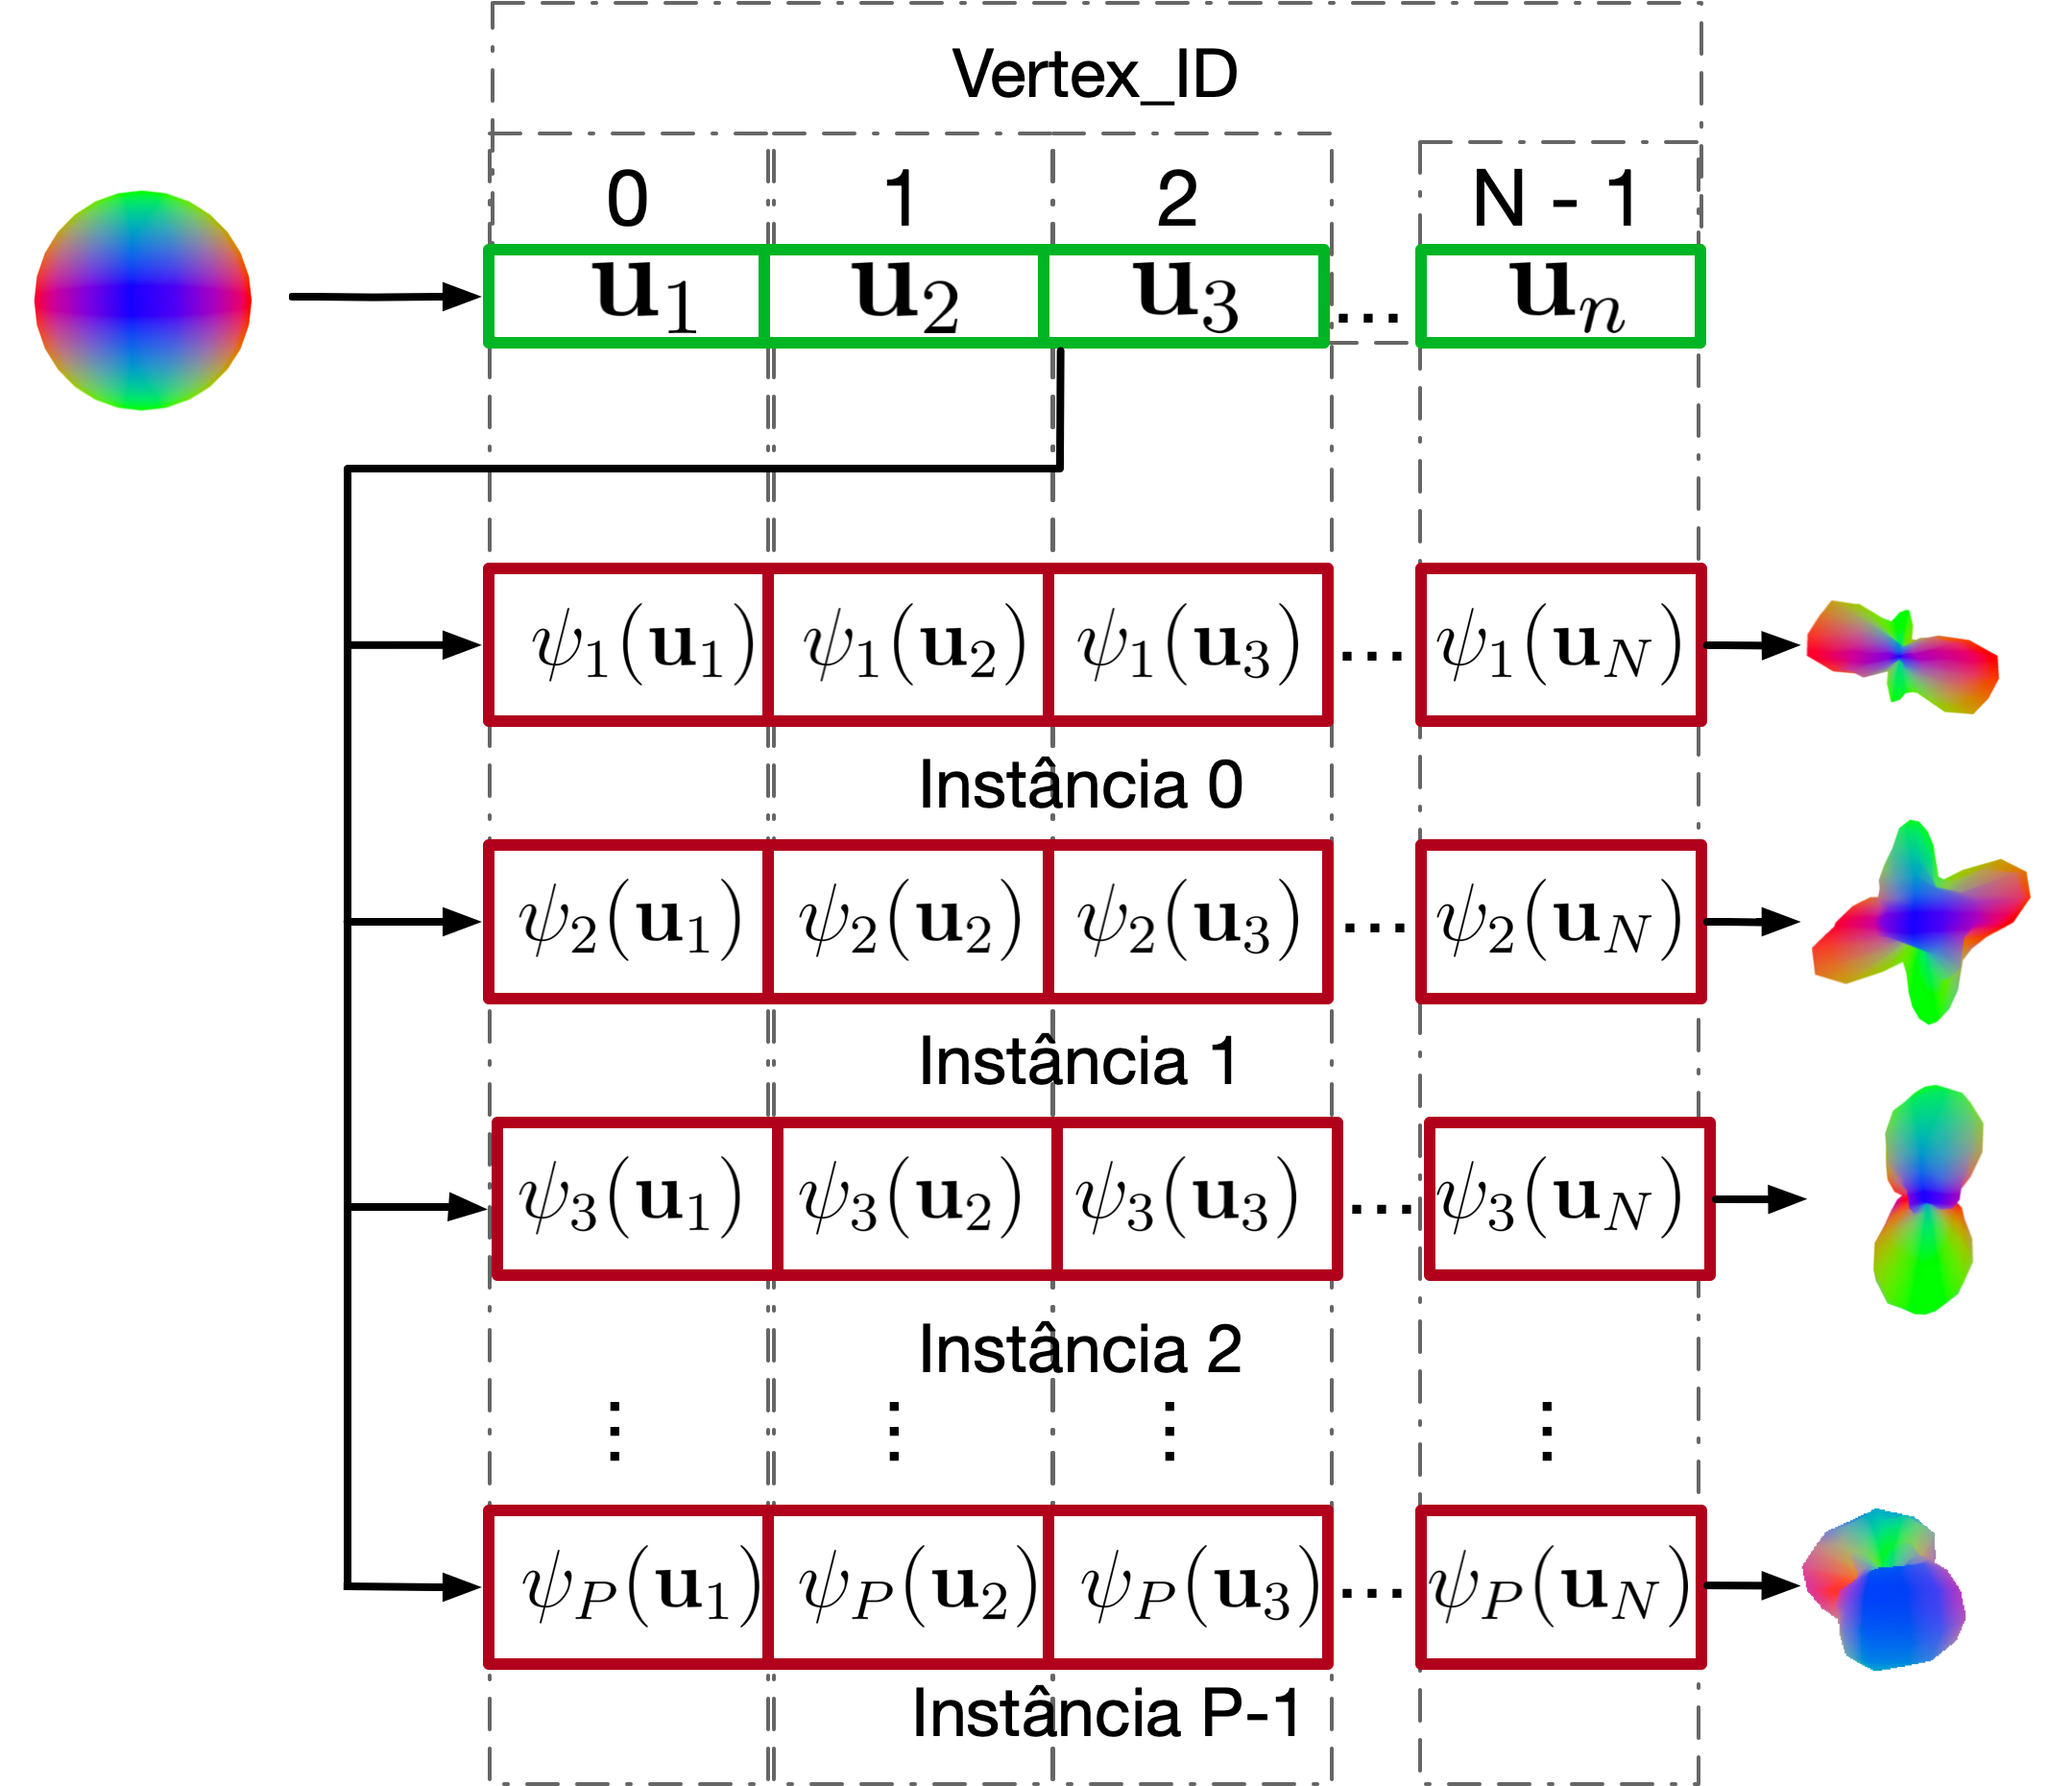
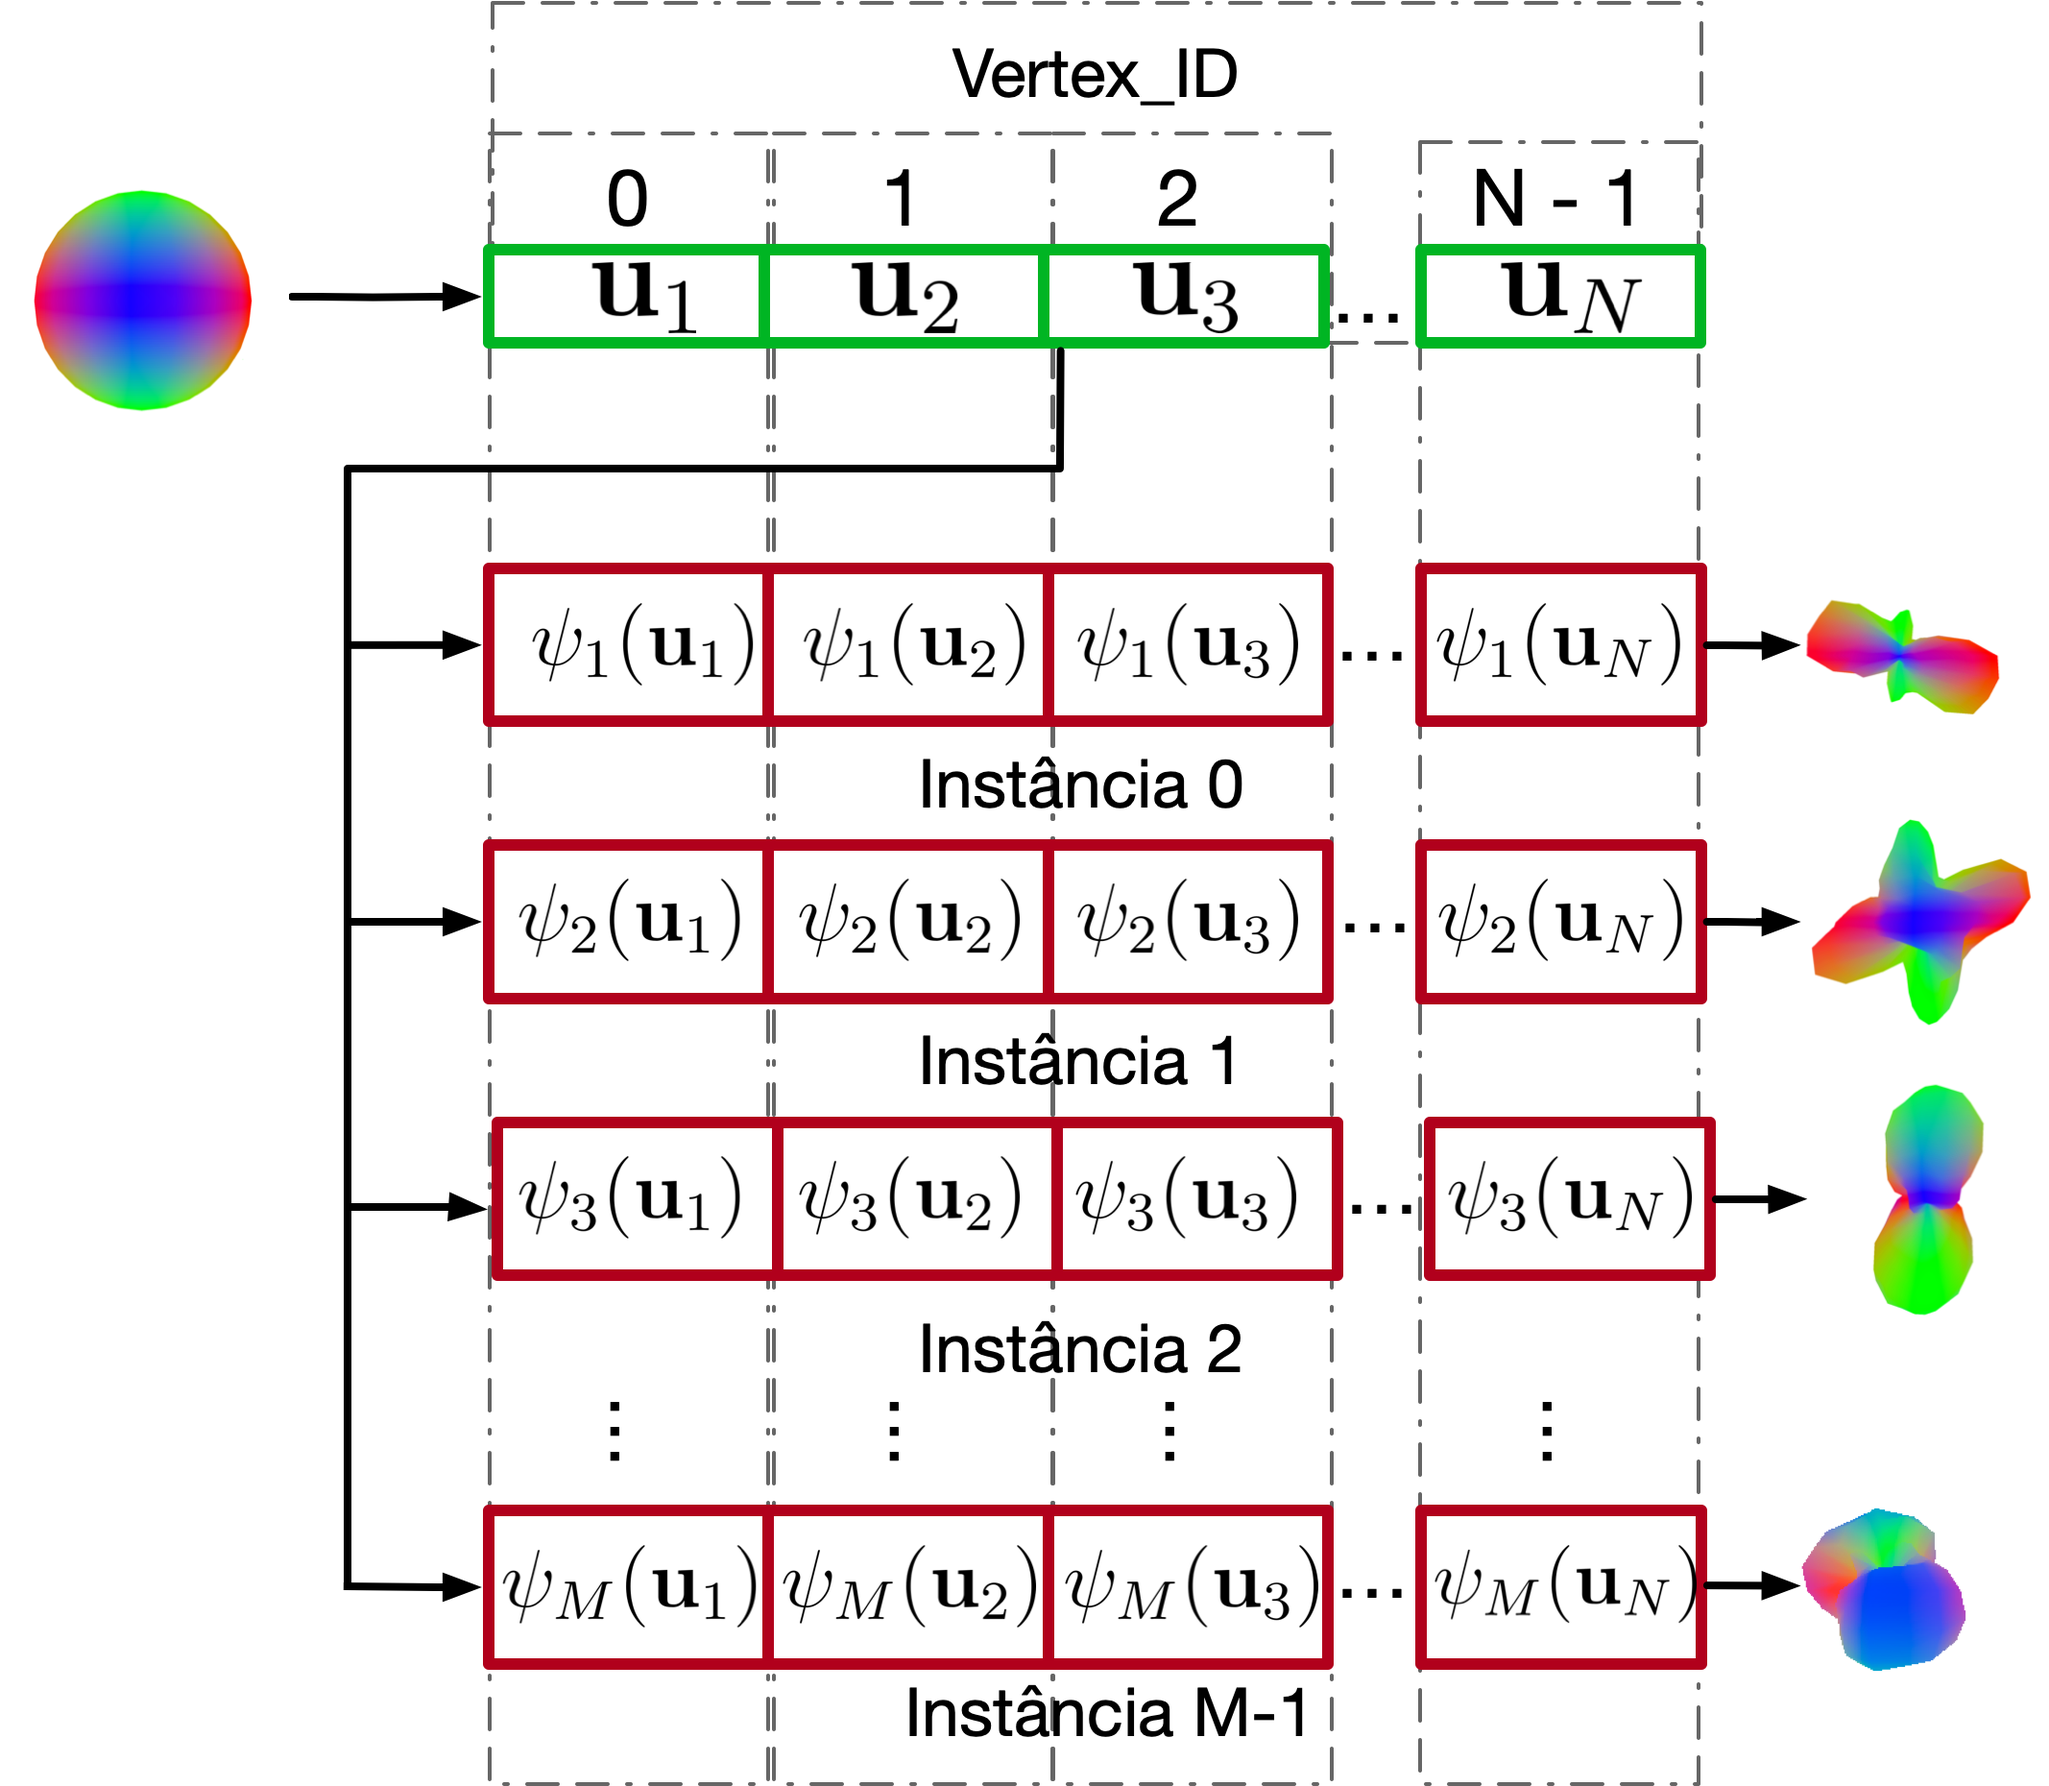
Mudanças de variáveis de translação a qte de ODFs, P para M.

diff --git a/main.tex b/main.tex
@@ -1412,7 +1412,7 @@ A inicialização do esquema consiste no pré-cômputo de uma malha esférica un
 
 Dois elementos customizam cada um dos glifos: amostras ODF e sua posição. Esses elementos são enviados para a GPU em cada solicitação de desenho.
 
-Primeiro, vamos definir o conjunto de vetores $\Upsilon$ como uma função de $\Pi$ como mostrado na equação \ref{eq::u_vector_set}. A geometria do glifo é deformada escalonando cada ponto $P_k$ na malha para o valor ODF $\psi(\mathbf{u}_k)$. A matriz de translação centraliza a malha esférica deformada para ser ponto $C(x, y, z)$.
+Primeiro, vamos definir o conjunto de vetores $\Upsilon$ como uma função de $\Pi$ como mostrado na equação \ref{eq::u_vector_set}. A geometria do glifo é deformada escalonando cada ponto $P_k$ na malha para o valor ODF $\psi(\mathbf{u}_k)$. A matriz de translação centraliza a malha esférica deformada para o ponto $C(x, y, z)$.
 
 \begin{equation}
 \label{eq::u_vector_set}
@@ -1429,11 +1429,11 @@ Primeiro, vamos definir o conjunto de vetores $\Upsilon$ como uma função de $\
 
 
 \subsubsection {Translação}
-Seja $P$ o número de instâncias do esquema de renderização e glifos a serem desenhados. Os pontos de translação são organizados como um vetor de pontos $[C_1, C_2,\dots, C_P]$, onde $C_i = (x_i, y_i, z_i)$, e enviados para a GPU como um atributo. Cada ponto deste atributo é único para cada uma das P instâncias da malha esférica.
+Seja $M$ o número de instâncias do esquema de renderização e glifos a serem desenhados. Os pontos de translação são organizados como um vetor de pontos $[C_1, C_2,\dots, C_M]$, onde $C_i = C_i(x_i, y_i, z_i)$, e enviados para a GPU como um atributo. Cada ponto deste atributo é único para cada uma das M instâncias da malha esférica.
 
 \subsubsection {ODFs}
 
-Os dados de ODF enviados para a GPU consistem nas N amostras referentes aos perfis de difusão para cada um dos P glifos a serem desenhados. Construímos uma matriz $\mathbf {\Psi}_{PxN} $, onde P é o número de glifos a serem desenhados e N é o número de amostras de ODF usadas, conforme mostrado na equação \ref {eq::Psi}:
+Os dados de ODF enviados para a GPU consistem nas N amostras referentes aos perfis de difusão para cada um dos $M$ glifos a serem desenhados. Construímos uma matriz $\mathbf {\Psi}_{MxN} $, onde $M$ é o número de glifos a serem desenhados e $N$ é o número de amostras de ODF utilizadas, conforme mostrado na equação \ref {eq::Psi}:
 
 \begin{equation}
 \label{eq::Psi}
@@ -1444,20 +1444,20 @@ Os dados de ODF enviados para a GPU consistem nas N amostras referentes aos perf
     \psi_1(\mathbf{u}_1) & \psi_1(\mathbf{u}_2) & \cdots \psi_1(\mathbf{u}_{N-1}) & \psi_1(\mathbf{u}_{N})  \\   
      \psi_2(\mathbf{u}_1)& \psi_2(\mathbf{u}_2) & \cdots \psi_2(\mathbf{u}_{N-1}) & \psi_2(\mathbf{u}_{N}) \\
     \vdots & \vdots & \vdots & \vdots  \\   
-     \psi_P(\mathbf{u}_1)&\psi_P(\mathbf{u}_2) & \cdots \psi_P(\mathbf{u}_{N-1}) & \psi_P(\mathbf{u}_{N})
+     \psi_M(\mathbf{u}_1)&\psi_M(\mathbf{u}_2) & \cdots \psi_M(\mathbf{u}_{N-1}) & \psi_M(\mathbf{u}_{N})
 \end{bmatrix}, 
 \endgroup
 \end{equation}
 
-onde $\psi_ {ij} $ se refere ao valor ODF $\psi_i (\mathbf {u} _j) $ do i-ésimo glifo associado à direção $\mathbf {u} _j $, que escala $ P_j $ vértice da malha esférica. A matriz $\mathbf {\Psi} _ {PxN} $ é enviada para a GPU como uma textura 2D.
+onde $\psi_ {ij} $ se refere ao valor ODF $\psi_i (\mathbf {u} _j) $ do i-ésimo glifo associado à direção $\mathbf {u} _j $, que escalona $ P_j $ vértice da malha esférica. A matriz $\mathbf {\Psi}_{MxN}$ é enviada para a GPU como uma textura 2D.
 
 Na GPU, o acesso das amostras de ODF para deformar seu respectivo ponto de esfera é feito acessando os dados de textura por meio de sua instância e índices de vértice no \textit{vertex shader}.
 
-O índice de instância (Instance\_ID) corresponde a uma malha esférica instanciada centrada em seu respectivo ponto $P$, e como as amostras ODFs de um glifo são armazenadas nas linhas de $\mathbf {\Psi} $, o Instance\_ID é usado para acessar esta dimensão para o acesso das amostras de ODF por glifo.
+O i-ésimo índice de instância (Instance\_ID) corresponde a uma malha esférica instanciada centrada em seu respectivo ponto $C_{i+1}$, e como as amostras de ODFs para o (i+1)-ésimo glifo são armazenadas nas linhas de $\mathbf{\Psi}$, o Instance\_ID é usado para acessar esta dimensão para o acesso das amostras de ODF por glifo.
 
-O índice do vértice (Vertex\_ID), por sua vez, indica um ponto da malha esférica, que corresponde à coluna de seu respectivo valor ODF em $\mathbf{\Psi}$.
+O j-ésimo índice do vértice (Vertex\_ID), por sua vez, se refere ao (j+1)-ésimo ponto da malha esférica, e que referencia a coluna de $\mathbf{\Psi}$.
 
-Assim, realizamos o acesso GPU por um simples \textit{lookup} na textura correspondente a $\mathbf{\Psi}$\footnote{Em OpenGL, o \textit{lookup} é feito através do comando texelFetch($\mathbf {\Psi}$, ivec2 (gl\_InstanceID, gl\_VertexID), 0)[0]} usando o par Vertex\_ID e Instance\_ID. A figura \ref{fig::organizacao2GPU} ilustra o acesso ODF para cada instância e vértice na GPU.
+Assim, realizamos o acesso na GPU por um simples \textit{lookup} na textura correspondente a $\mathbf{\Psi}$\footnote{Em OpenGL, o \textit{lookup} é feito através do comando texelFetch($\mathbf {\Psi}$, ivec2 (gl\_InstanceID, gl\_VertexID), 0)[0]} usando o par Vertex\_ID e Instance\_ID. A figura \ref{fig::organizacao2GPU} ilustra o acesso ODF para cada instância e vértice na GPU.
 
 \begin{figure}[h]
 %\subfigcapskip = -5pt
@@ -1479,9 +1479,9 @@ Uma ODF é simétrica se $\psi(\mathbf{u}) = \psi (-\mathbf{u}) $ para todo $\ma
 
 Primeiramente, sugerimos o uso de uma malha esférica simétrica. Isso significa que se um ponto $P \in \Pi \implies -P \in \Pi$. Como exemplo, uma malha gerada por qualquer ordem de um icosaedro tesselado se encaixa nesse critério.
 
-Em segundo lugar, sugerimos que a estrutura de dados da malha esférica simétrica escolhida seja organizada de forma que um ponto $P $em um índice par seja seguido por $-P$. Esta malha esférica é enviada para a GPU da mesma forma indicada na subseção \ref {ssec::precomputation}.
+Em segundo lugar, sugerimos que a estrutura de dados da malha esférica simétrica escolhida seja organizada de forma que um ponto $P$ em um índice par seja seguido por $-P$. Esta malha esférica é enviada para a GPU da mesma forma indicada na subseção \ref{ssec::initializacao_glifo}.
 
-Seguindo essas recomendações, a estrutura de dados dos pontos na esfera $[P_1, P_2, P_3, P_4, \dots, P_ {N-1}, P_N] $ torna-se $[P_1, -P_1, P_3, -P_3, \dots , P_ {N-1}, -P_ {N-1}]$ e seu $ \Upsilon$ associado muda para $[\mathbf{u}_1, - \mathbf{u}_1, \mathbf{u}_3, -\mathbf{u}_3, \dots, \mathbf{u}_{N-1}, - \mathbf{u}_{N-1}]$. Nesta situação, $\mathbf{\Psi}$ se torna:
+Seguindo estas recomendações, a estrutura de dados dos pontos na esfera $[P_1, P_2, P_3, P_4, \dots, P_ {N-1}, P_N] $ torna-se $[P_1, -P_1, P_3, -P_3, \dots , P_ {N-1}, -P_ {N-1}]$ e seu respectivo conjunto $ \Upsilon$ se torna $[\mathbf{u}_1, - \mathbf{u}_1, \mathbf{u}_3, -\mathbf{u}_3, \dots, \mathbf{u}_{N-1}, - \mathbf{u}_{N-1}]$. Com os dados estruturados desta maneira, $\mathbf{\Psi}$ se torna:
 
 \begin{equation}
 \mathbf{\Psi} = 
@@ -1494,7 +1494,7 @@ Seguindo essas recomendações, a estrutura de dados dos pontos na esfera $[P_1,
 
     \vdots & \vdots & \vdots & \vdots  \\
     
-     \psi_P(\mathbf{u}_1)&\psi_P(-\mathbf{u}_1) & \cdots \psi_P(\mathbf{u}_{N-1}) & \psi_P(-\mathbf{u}_{N-1})
+     \psi_M(\mathbf{u}_1)&\psi_M(-\mathbf{u}_1) & \cdots \psi_M(\mathbf{u}_{N-1}) & \psi_M(-\mathbf{u}_{N-1})
     
 \end{bmatrix},
 \endgroup
@@ -1502,7 +1502,7 @@ Seguindo essas recomendações, a estrutura de dados dos pontos na esfera $[P_1,
 
 onde cada (2k+1)-ésima coluna é a mesma (2k+2)-ésima ($0 \leq k < \frac{N}{2}$).
 
-Portanto, definimos uma matriz $\mathbf{\Psi^h}_{Px\frac{N}{2}}$de tal forma que $\mathbf{\psi^h}_{ij} = \mathbf{\psi}_{i(2j-1)}$, descrita na expressão abaixo:
+Portanto, definimos uma matriz $\mathbf{\Psi^h}_{Mx\frac{N}{2}}$ de tal forma que $\mathbf{\psi^h}_{ij} = \mathbf{\psi}_{i(2j-1)}$, descrita na expressão abaixo:
 
 \begin{equation}
 \label{eq::Psi_changed}
@@ -1516,7 +1516,7 @@ Portanto, definimos uma matriz $\mathbf{\Psi^h}_{Px\frac{N}{2}}$de tal forma que
 
     \vdots & \vdots & \vdots & \vdots  \\
     
-     \psi_P(\mathbf{u}_1)&\psi_P(\mathbf{u}_3) & \cdots \psi_P(\mathbf{u}_{N-3}) & \psi_P(\mathbf{u}_{N-1})
+     \psi_M(\mathbf{u}_1)&\psi_M(\mathbf{u}_3) & \cdots \psi_M(\mathbf{u}_{N-3}) & \psi_M(\mathbf{u}_{N-1})
     
 \end{bmatrix}
 \endgroup
@@ -1563,14 +1563,14 @@ Na renderização de fatias, a inferência dos \textit{pixels} aparentes na tela
 
 Na renderização tridimensional, também há uma funcionalidade para detecção de amostras aparentes. A detecção é baseada em \textit{raycasting} computado sobre o volume na GPU, no qual foi proposto e implementado no VMTK-Neuro por \citeonline{raphael_dissertacao}. Cada uma das amostras é associado a uma matriz de translação pré-computada para o seu centro no 3D.
 
-A partir de $P$ \textit{voxels} detectados em uma requisição de desenho, suas respectivas matrizes de posicionamento são copiadas e armazenadas como um vetor e enviadas à GPU. Da mesma maneira, a matriz $\Psi$ é computada a partir das amostras detectadas e enviada à GPU, conforme mostrado na Figura \ref{fig::organizacao2GPU}.
+A partir de $M$ \textit{voxels} detectados em uma requisição de desenho, suas respectivas matrizes de posicionamento são copiadas e armazenadas como um vetor e enviadas à GPU. Da mesma maneira, a matriz $\mathbf{\Psi^h}$ é computada a partir das amostras detectadas e enviada à GPU, conforme mostrado na Figura \ref{fig::organizacao2GPU}.
 
 \begin{figure}[ht]
 
 %\subfigcapskip = -5pt
     \centering
     \includegraphics[width=1.0\linewidth, angle=0]{figs/Esquema_Glifo/organizacao2GPU.png}
-    \caption{Ilustração da organização de dados de perfis de difusão antes do envio à GPU. Em vermelho, estão os perfis de difusão de P voxels detectados \textit{voxels} ($d_1$, $d_2$, ..., $d_P$) detectados, não necessariamente em sequência na memória, que são copiados para uma matriz e enviados à GPU. O valor S corresponde a quantidade voxels do volume e $N$ se refere a quantidade de amostras nos perfis de difusão}
+    \caption{Ilustração da organização de dados de perfis de difusão antes do envio à GPU para um volume $V$ com $S$ \textit{voxels}. Cada perfil de difusão com $N$ amostras é pré-computado para todas os \textit{voxels} do volume. Em vermelho, estão os perfis de difusão de $M$ \textit{voxels} de ODF requisitados a serem desenhados, cujos índices são $d_1, d_2, \dots, d_M$, não necessariamente dispostos em sequência na memória. Estas amostras definem $\mathbf{\Psi^h}$ e são enviados à GPU.}
     \label{fig::organizacao2GPU}
    \hspace{1pt}
 \end{figure}
@@ -1662,7 +1662,7 @@ Há uma diferença relevante de performance na adaptação do esquema de renderi
 %O resultados mostrados nas tabelas \ref{tab::benchmark_glifos_197} e \ref{tab::benchmark_glifos_422} mostram que centenas de glifos podem ser renderizados na faixa de centenas de microssegundos e unidades de milissegundos, o que possibilita a sua integração a esquemas de renderização mais complexos e custosos computacionalmente relacionados a volumes de difusão.
 
 %\todo[inline]{O que é fração do limite máximo para interatividade?}
-\pagebreak
+%\pagebreak
 
 %Pode-se notar que em ambas as malhas esféricas utilizadas, a fração de tempo de execução é pequena para centenas
 
